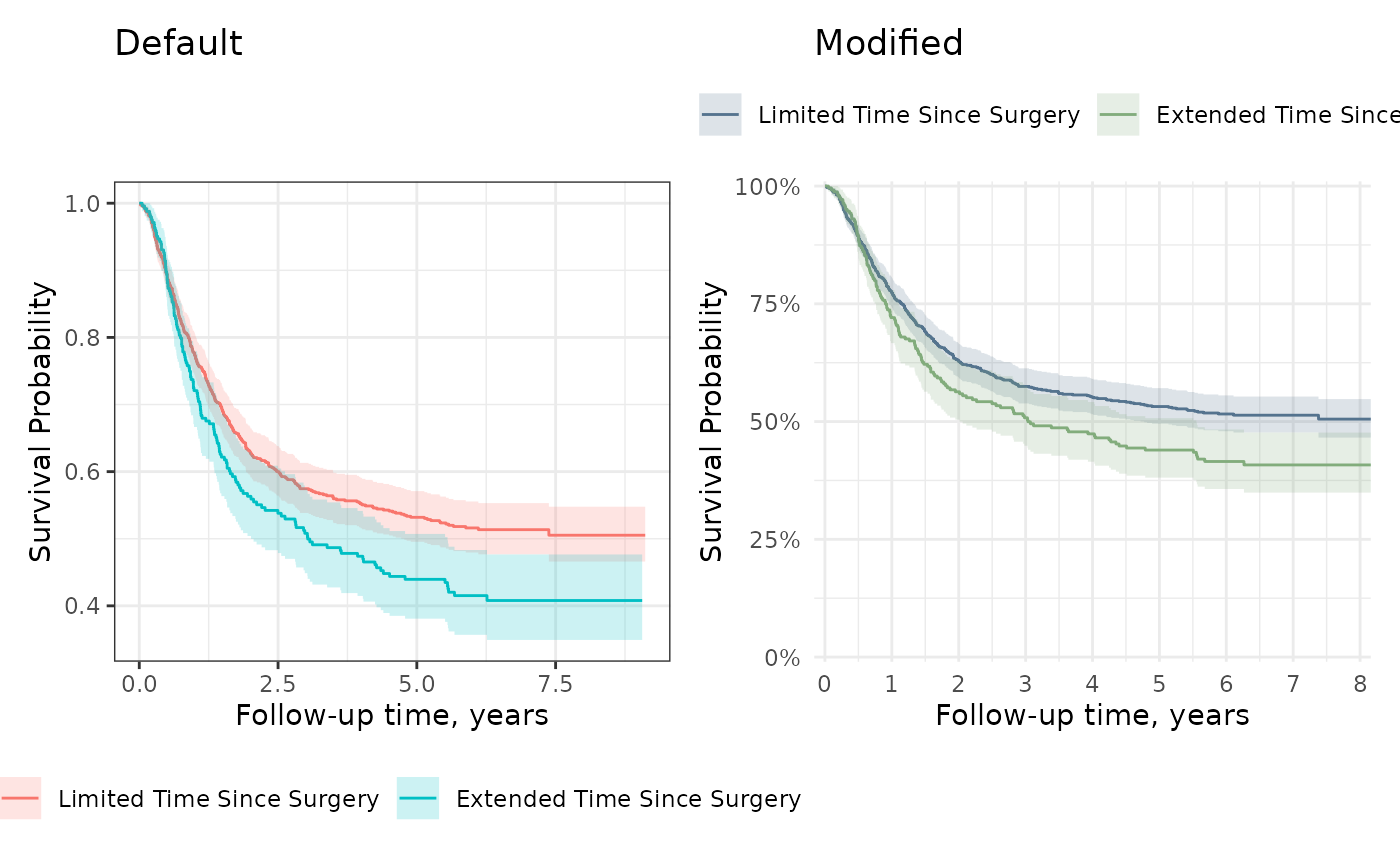
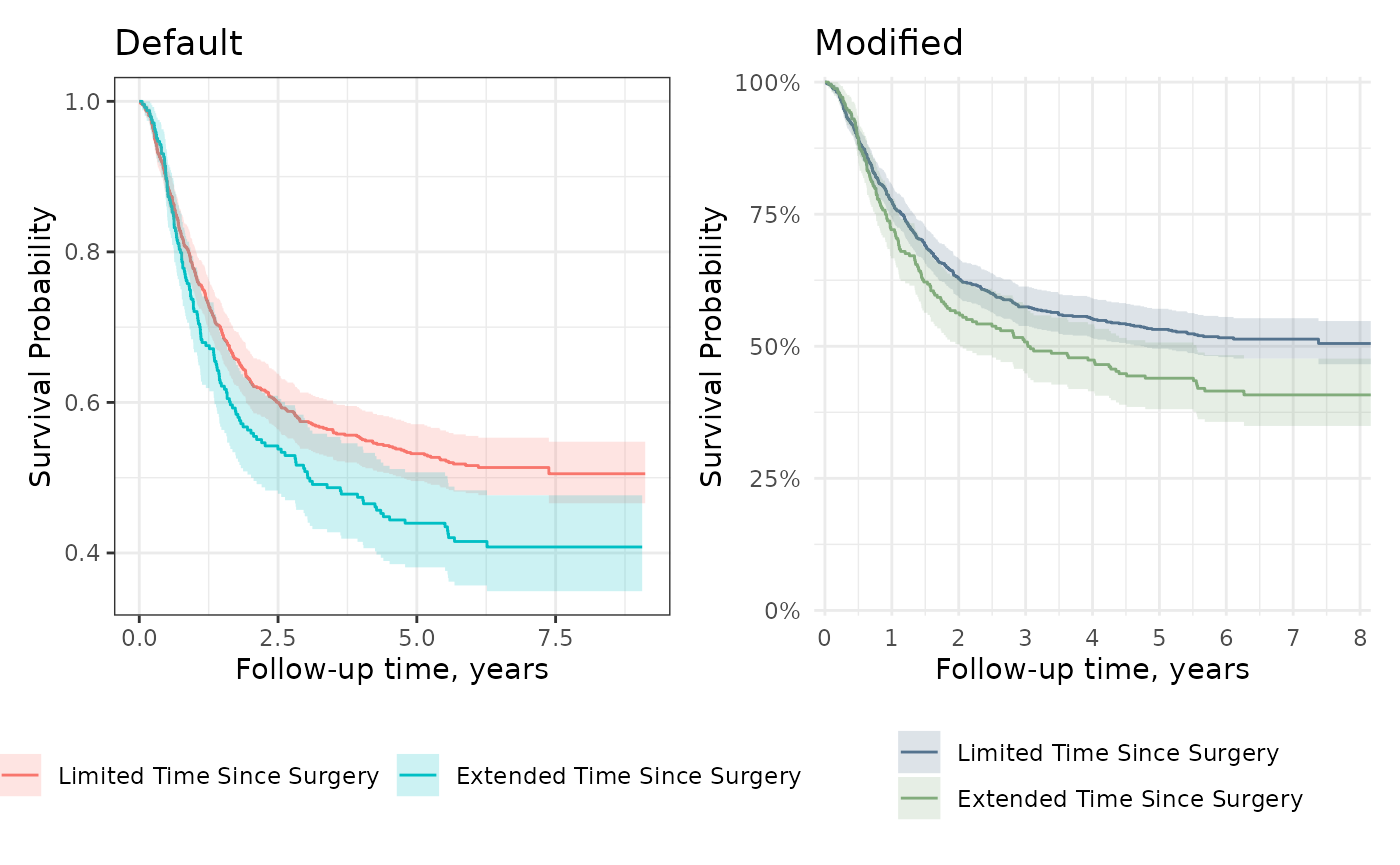
Deploying to gh-pages from @ ddsjoberg/ggsurvfit@f4f028d56624a5d059d587987f817d07867c44ac 🚀

diff --git a/index.html b/index.html
@@ -5,13 +5,12 @@
 <meta charset="utf-8">
 <meta http-equiv="X-UA-Compatible" content="IE=edge">
 <meta name="viewport" content="width=device-width, initial-scale=1, shrink-to-fit=no">
-<meta name="description" content="Ease the creation of time-to-event (aka survival) endpoint
-    figures with ggplot2.  The concise and modular code creates images
-    that are ready for publication or sharing.  Each of the functions that
-    add to or modify the existing ggplot are written as proper ggplot2
-    geoms or stat methods, allowing the functions from this package to be
-    combined with any functions or customization from ggplot2 and other
-    ggplot2 extensions.">
+<meta name="description" content="Ease the creation of time-to-event (i.e. survival) endpoint
+    figures. The modular functions create figures ready for
+    publication. Each of the functions that add to or modify the figure
+    are written as proper ggplot2 geoms or stat methods, allowing
+    the functions from this package to be combined with any function or
+    customization from ggplot2 and other ggplot2 extension packages.">
 <title>Easy and Flexible Time-to-Event Figures • ggsurvfit</title>
 <script src="deps/jquery-3.6.0/jquery-3.6.0.min.js"></script><meta name="viewport" content="width=device-width, initial-scale=1, shrink-to-fit=no">
 <link href="deps/bootstrap-5.1.3/bootstrap.min.css" rel="stylesheet">
@@ -19,13 +18,12 @@
 <!-- Font Awesome icons --><link rel="stylesheet" href="https://cdnjs.cloudflare.com/ajax/libs/font-awesome/5.12.1/css/all.min.css" integrity="sha256-mmgLkCYLUQbXn0B1SRqzHar6dCnv9oZFPEC1g1cwlkk=" crossorigin="anonymous">
 <link rel="stylesheet" href="https://cdnjs.cloudflare.com/ajax/libs/font-awesome/5.12.1/css/v4-shims.min.css" integrity="sha256-wZjR52fzng1pJHwx4aV2AO3yyTOXrcDW7jBpJtTwVxw=" crossorigin="anonymous">
 <!-- bootstrap-toc --><script src="https://cdn.rawgit.com/afeld/bootstrap-toc/v1.0.1/dist/bootstrap-toc.min.js"></script><!-- headroom.js --><script src="https://cdnjs.cloudflare.com/ajax/libs/headroom/0.11.0/headroom.min.js" integrity="sha256-AsUX4SJE1+yuDu5+mAVzJbuYNPHj/WroHuZ8Ir/CkE0=" crossorigin="anonymous"></script><script src="https://cdnjs.cloudflare.com/ajax/libs/headroom/0.11.0/jQuery.headroom.min.js" integrity="sha256-ZX/yNShbjqsohH1k95liqY9Gd8uOiE1S4vZc+9KQ1K4=" crossorigin="anonymous"></script><!-- clipboard.js --><script src="https://cdnjs.cloudflare.com/ajax/libs/clipboard.js/2.0.6/clipboard.min.js" integrity="sha256-inc5kl9MA1hkeYUt+EC3BhlIgyp/2jDIyBLS6k3UxPI=" crossorigin="anonymous"></script><!-- search --><script src="https://cdnjs.cloudflare.com/ajax/libs/fuse.js/6.4.6/fuse.js" integrity="sha512-zv6Ywkjyktsohkbp9bb45V6tEMoWhzFzXis+LrMehmJZZSys19Yxf1dopHx7WzIKxr5tK2dVcYmaCk2uqdjF4A==" crossorigin="anonymous"></script><script src="https://cdnjs.cloudflare.com/ajax/libs/autocomplete.js/0.38.0/autocomplete.jquery.min.js" integrity="sha512-GU9ayf+66Xx2TmpxqJpliWbT5PiGYxpaG8rfnBEk1LL8l1KGkRShhngwdXK1UgqhAzWpZHSiYPc09/NwDQIGyg==" crossorigin="anonymous"></script><script src="https://cdnjs.cloudflare.com/ajax/libs/mark.js/8.11.1/mark.min.js" integrity="sha512-5CYOlHXGh6QpOFA/TeTylKLWfB3ftPsde7AnmhuitiTX4K5SqCLBeKro6sPS8ilsz1Q4NRx3v8Ko2IBiszzdww==" crossorigin="anonymous"></script><!-- pkgdown --><script src="pkgdown.js"></script><meta property="og:title" content="Easy and Flexible Time-to-Event Figures">
-<meta property="og:description" content="Ease the creation of time-to-event (aka survival) endpoint
-    figures with ggplot2.  The concise and modular code creates images
-    that are ready for publication or sharing.  Each of the functions that
-    add to or modify the existing ggplot are written as proper ggplot2
-    geoms or stat methods, allowing the functions from this package to be
-    combined with any functions or customization from ggplot2 and other
-    ggplot2 extensions.">
+<meta property="og:description" content="Ease the creation of time-to-event (i.e. survival) endpoint
+    figures. The modular functions create figures ready for
+    publication. Each of the functions that add to or modify the figure
+    are written as proper ggplot2 geoms or stat methods, allowing
+    the functions from this package to be combined with any function or
+    customization from ggplot2 and other ggplot2 extension packages.">
 <!-- mathjax --><script src="https://cdnjs.cloudflare.com/ajax/libs/mathjax/2.7.5/MathJax.js" integrity="sha256-nvJJv9wWKEm88qvoQl9ekL2J+k/RWIsaSScxxlsrv8k=" crossorigin="anonymous"></script><script src="https://cdnjs.cloudflare.com/ajax/libs/mathjax/2.7.5/config/TeX-AMS-MML_HTMLorMML.js" integrity="sha256-84DKXVJXs0/F8OTMzX4UR909+jtl4G7SPypPavF+GfA=" crossorigin="anonymous"></script><!--[if lt IE 9]>
 <script src="https://oss.maxcdn.com/html5shiv/3.7.3/html5shiv.min.js"></script>
 <script src="https://oss.maxcdn.com/respond/1.4.2/respond.min.js"></script>
@@ -101,8 +99,11 @@
 <div class="section level2">
 <h2 id="installation">Installation<a class="anchor" aria-label="anchor" href="#installation"></a>
 </h2>
-<p>You can install the development version of <strong>ggsurvfit</strong> from <a href="https://github.com/ddsjoberg/ggsurvfit" class="external-link">GitHub</a> with:</p>
+<p>Install <strong>ggsurvfit</strong> from CRAN with:</p>
 <div class="sourceCode" id="cb1"><pre class="downlit sourceCode r">
+<code class="sourceCode R"><span><span class="fu"><a href="https://rdrr.io/r/utils/install.packages.html" class="external-link">install.packages</a></span><span class="op">(</span><span class="st">"ggsurvfit"</span><span class="op">)</span></span></code></pre></div>
+<p>You can install the development version from <a href="https://github.com/ddsjoberg/ggsurvfit" class="external-link">GitHub</a> with:</p>
+<div class="sourceCode" id="cb2"><pre class="downlit sourceCode r">
 <code class="sourceCode R"><span><span class="co"># install.packages("devtools")</span></span>
 <span><span class="fu">devtools</span><span class="fu">::</span><span class="fu">install_github</span><span class="op">(</span><span class="st">"ddsjoberg/ggsurvfit"</span><span class="op">)</span></span></code></pre></div>
 </div>
@@ -110,7 +111,7 @@
 <h2 id="examples">Examples<a class="anchor" aria-label="anchor" href="#examples"></a>
 </h2>
 <p>Review the <a href="http://www.danieldsjoberg.com/ggsurvfit/articles/gallery.html"><strong>figure gallery</strong></a> for many more examples.</p>
-<div class="sourceCode" id="cb2"><pre class="downlit sourceCode r">
+<div class="sourceCode" id="cb3"><pre class="downlit sourceCode r">
 <code class="sourceCode R"><span><span class="kw"><a href="https://rdrr.io/r/base/library.html" class="external-link">library</a></span><span class="op">(</span><span class="va"><a href="https://github.com/ddsjoberg/ggsurvfit" class="external-link">ggsurvfit</a></span><span class="op">)</span></span>
 <span><span class="kw"><a href="https://rdrr.io/r/base/library.html" class="external-link">library</a></span><span class="op">(</span><span class="va"><a href="https://ggplot2.tidyverse.org" class="external-link">ggplot2</a></span><span class="op">)</span></span>
 <span></span>
@@ -120,10 +121,14 @@
 <span>  <span class="fu"><a href="reference/add_confidence_interval.html">add_confidence_interval</a></span><span class="op">(</span><span class="op">)</span> <span class="op">+</span></span>
 <span>  <span class="fu"><a href="reference/add_risktable.html">add_risktable</a></span><span class="op">(</span><span class="op">)</span> <span class="op">+</span></span>
 <span>  <span class="fu"><a href="reference/add_quantile.html">add_quantile</a></span><span class="op">(</span>y_value <span class="op">=</span> <span class="fl">0.6</span>, color <span class="op">=</span> <span class="st">"gray50"</span>, size <span class="op">=</span> <span class="fl">0.75</span><span class="op">)</span> <span class="op">+</span></span>
+<span>  </span>
 <span>  <span class="co"># use ggplot2 functions to style the plot and update the labels --------------</span></span>
+<span>  <span class="co"># limit plot to show 8 years and less</span></span>
+<span>  <span class="fu"><a href="https://ggplot2.tidyverse.org/reference/coord_cartesian.html" class="external-link">coord_cartesian</a></span><span class="op">(</span>xlim <span class="op">=</span> <span class="fu"><a href="https://rdrr.io/r/base/c.html" class="external-link">c</a></span><span class="op">(</span><span class="fl">0</span>, <span class="fl">8</span><span class="op">)</span><span class="op">)</span> <span class="op">+</span></span>
+<span>  <span class="co"># update figure labels/titles</span></span>
 <span>  <span class="fu"><a href="https://ggplot2.tidyverse.org/reference/labs.html" class="external-link">labs</a></span><span class="op">(</span></span>
 <span>    y <span class="op">=</span> <span class="st">"Probability of survival"</span>,</span>
-<span>    title <span class="op">=</span> <span class="st">"Recurrence by Time Since Surgery"</span>,</span>
+<span>    title <span class="op">=</span> <span class="st">"Recurrence by Time Since Surgery to Randomization"</span>,</span>
 <span>  <span class="op">)</span> <span class="op">+</span></span>
 <span>  <span class="co"># reduce padding on edges of figure, and format axes</span></span>
 <span>  <span class="fu"><a href="https://ggplot2.tidyverse.org/reference/scale_continuous.html" class="external-link">scale_y_continuous</a></span><span class="op">(</span>label <span class="op">=</span> <span class="fu">scales</span><span class="fu">::</span><span class="va"><a href="https://scales.r-lib.org/reference/percent_format.html" class="external-link">percent</a></span>, </span>
@@ -150,7 +155,7 @@
 </h2>
 <p>The package also includes a gem for those using the <a href="https://www.cdisc.org/standards/foundational/adam/adam-basic-data-structure-bds-time-event-tte-analyses-v1-0" class="external-link">CDISC ADaM ADTTE</a> data model. The event indicator in ADTTE data sets is named <code>"CNSR"</code> and is coded in the opposite way the survival package expects outcomes—<code>1 = 'censored'</code> and <code>0 = 'event'</code>. This difference creates an opportunity for errors to be introduced in an analysis. The package exports a function called <code><a href="reference/Surv_CNSR.html">Surv_CNSR()</a></code> to resolve this concern.</p>
 <p>The function creates a survival object (e.g. <code><a href="https://rdrr.io/pkg/survival/man/Surv.html" class="external-link">survival::Surv()</a></code>) that uses CDISC ADaM ADTTE coding conventions and converts the arguments to the status/event variable convention used in the survival package for both the event indicator and the time component. The <code>"AVAL"</code> and <code>"CNSR"</code> arguments are passed to <code>survival::Surv(time = AVAL, event = 1 - CNSR, type = "right", origin = 0)</code>. The function can be used in <strong>ggsurvfit</strong> as well as any other package that uses <code><a href="https://rdrr.io/pkg/survival/man/Surv.html" class="external-link">survival::Surv()</a></code>.</p>
-<div class="sourceCode" id="cb3"><pre class="downlit sourceCode r">
+<div class="sourceCode" id="cb4"><pre class="downlit sourceCode r">
 <code class="sourceCode R"><span><span class="fu"><a href="https://rdrr.io/pkg/survival/man/survfit.html" class="external-link">survfit</a></span><span class="op">(</span><span class="fu"><a href="reference/Surv_CNSR.html">Surv_CNSR</a></span><span class="op">(</span><span class="op">)</span> <span class="op">~</span> <span class="fl">1</span>, <span class="va">adtte</span><span class="op">)</span></span>
 <span><span class="co">#&gt; Call: survfit(formula = Surv_CNSR() ~ 1, data = adtte)</span></span>
 <span><span class="co">#&gt; </span></span>

diff --git a/reference/ggsurvfit-package.html b/reference/ggsurvfit-package.html
@@ -1,5 +1,5 @@
 <!DOCTYPE html>
-<!-- Generated by pkgdown: do not edit by hand --><html lang="en"><head><meta http-equiv="Content-Type" content="text/html; charset=UTF-8"><meta charset="utf-8"><meta http-equiv="X-UA-Compatible" content="IE=edge"><meta name="viewport" content="width=device-width, initial-scale=1, shrink-to-fit=no"><meta name="description" content="Ease the creation of time-to-event (aka survival) endpoint figures with 'ggplot2'. The concise and modular code creates images that are ready for publication or sharing. Each of the functions that add to or modify the existing ggplot are written as proper 'ggplot2' geoms or stat methods, allowing the functions from this package to be combined with any functions or customization from 'ggplot2' and other 'ggplot2' extensions."><title>ggsurvfit: Easy and Flexible Time-to-Event Figures — ggsurvfit-package • ggsurvfit</title><script src="../deps/jquery-3.6.0/jquery-3.6.0.min.js"></script><meta name="viewport" content="width=device-width, initial-scale=1, shrink-to-fit=no"><link href="../deps/bootstrap-5.1.3/bootstrap.min.css" rel="stylesheet"><script src="../deps/bootstrap-5.1.3/bootstrap.bundle.min.js"></script><link href="../deps/Atkinson_Hyperlegible-0.4.2/font.css" rel="stylesheet"><!-- Font Awesome icons --><link rel="stylesheet" href="https://cdnjs.cloudflare.com/ajax/libs/font-awesome/5.12.1/css/all.min.css" integrity="sha256-mmgLkCYLUQbXn0B1SRqzHar6dCnv9oZFPEC1g1cwlkk=" crossorigin="anonymous"><link rel="stylesheet" href="https://cdnjs.cloudflare.com/ajax/libs/font-awesome/5.12.1/css/v4-shims.min.css" integrity="sha256-wZjR52fzng1pJHwx4aV2AO3yyTOXrcDW7jBpJtTwVxw=" crossorigin="anonymous"><!-- bootstrap-toc --><script src="https://cdn.rawgit.com/afeld/bootstrap-toc/v1.0.1/dist/bootstrap-toc.min.js"></script><!-- headroom.js --><script src="https://cdnjs.cloudflare.com/ajax/libs/headroom/0.11.0/headroom.min.js" integrity="sha256-AsUX4SJE1+yuDu5+mAVzJbuYNPHj/WroHuZ8Ir/CkE0=" crossorigin="anonymous"></script><script src="https://cdnjs.cloudflare.com/ajax/libs/headroom/0.11.0/jQuery.headroom.min.js" integrity="sha256-ZX/yNShbjqsohH1k95liqY9Gd8uOiE1S4vZc+9KQ1K4=" crossorigin="anonymous"></script><!-- clipboard.js --><script src="https://cdnjs.cloudflare.com/ajax/libs/clipboard.js/2.0.6/clipboard.min.js" integrity="sha256-inc5kl9MA1hkeYUt+EC3BhlIgyp/2jDIyBLS6k3UxPI=" crossorigin="anonymous"></script><!-- search --><script src="https://cdnjs.cloudflare.com/ajax/libs/fuse.js/6.4.6/fuse.js" integrity="sha512-zv6Ywkjyktsohkbp9bb45V6tEMoWhzFzXis+LrMehmJZZSys19Yxf1dopHx7WzIKxr5tK2dVcYmaCk2uqdjF4A==" crossorigin="anonymous"></script><script src="https://cdnjs.cloudflare.com/ajax/libs/autocomplete.js/0.38.0/autocomplete.jquery.min.js" integrity="sha512-GU9ayf+66Xx2TmpxqJpliWbT5PiGYxpaG8rfnBEk1LL8l1KGkRShhngwdXK1UgqhAzWpZHSiYPc09/NwDQIGyg==" crossorigin="anonymous"></script><script src="https://cdnjs.cloudflare.com/ajax/libs/mark.js/8.11.1/mark.min.js" integrity="sha512-5CYOlHXGh6QpOFA/TeTylKLWfB3ftPsde7AnmhuitiTX4K5SqCLBeKro6sPS8ilsz1Q4NRx3v8Ko2IBiszzdww==" crossorigin="anonymous"></script><!-- pkgdown --><script src="../pkgdown.js"></script><meta property="og:title" content="ggsurvfit: Easy and Flexible Time-to-Event Figures — ggsurvfit-package"><meta property="og:description" content="Ease the creation of time-to-event (aka survival) endpoint figures with 'ggplot2'. The concise and modular code creates images that are ready for publication or sharing. Each of the functions that add to or modify the existing ggplot are written as proper 'ggplot2' geoms or stat methods, allowing the functions from this package to be combined with any functions or customization from 'ggplot2' and other 'ggplot2' extensions."><!-- mathjax --><script src="https://cdnjs.cloudflare.com/ajax/libs/mathjax/2.7.5/MathJax.js" integrity="sha256-nvJJv9wWKEm88qvoQl9ekL2J+k/RWIsaSScxxlsrv8k=" crossorigin="anonymous"></script><script src="https://cdnjs.cloudflare.com/ajax/libs/mathjax/2.7.5/config/TeX-AMS-MML_HTMLorMML.js" integrity="sha256-84DKXVJXs0/F8OTMzX4UR909+jtl4G7SPypPavF+GfA=" crossorigin="anonymous"></script><!--[if lt IE 9]>
+<!-- Generated by pkgdown: do not edit by hand --><html lang="en"><head><meta http-equiv="Content-Type" content="text/html; charset=UTF-8"><meta charset="utf-8"><meta http-equiv="X-UA-Compatible" content="IE=edge"><meta name="viewport" content="width=device-width, initial-scale=1, shrink-to-fit=no"><meta name="description" content="Ease the creation of time-to-event (i.e. survival) endpoint figures. The modular functions create figures ready for publication. Each of the functions that add to or modify the figure are written as proper 'ggplot2' geoms or stat methods, allowing the functions from this package to be combined with any function or customization from 'ggplot2' and other 'ggplot2' extension packages."><title>ggsurvfit: Easy and Flexible Time-to-Event Figures — ggsurvfit-package • ggsurvfit</title><script src="../deps/jquery-3.6.0/jquery-3.6.0.min.js"></script><meta name="viewport" content="width=device-width, initial-scale=1, shrink-to-fit=no"><link href="../deps/bootstrap-5.1.3/bootstrap.min.css" rel="stylesheet"><script src="../deps/bootstrap-5.1.3/bootstrap.bundle.min.js"></script><link href="../deps/Atkinson_Hyperlegible-0.4.2/font.css" rel="stylesheet"><!-- Font Awesome icons --><link rel="stylesheet" href="https://cdnjs.cloudflare.com/ajax/libs/font-awesome/5.12.1/css/all.min.css" integrity="sha256-mmgLkCYLUQbXn0B1SRqzHar6dCnv9oZFPEC1g1cwlkk=" crossorigin="anonymous"><link rel="stylesheet" href="https://cdnjs.cloudflare.com/ajax/libs/font-awesome/5.12.1/css/v4-shims.min.css" integrity="sha256-wZjR52fzng1pJHwx4aV2AO3yyTOXrcDW7jBpJtTwVxw=" crossorigin="anonymous"><!-- bootstrap-toc --><script src="https://cdn.rawgit.com/afeld/bootstrap-toc/v1.0.1/dist/bootstrap-toc.min.js"></script><!-- headroom.js --><script src="https://cdnjs.cloudflare.com/ajax/libs/headroom/0.11.0/headroom.min.js" integrity="sha256-AsUX4SJE1+yuDu5+mAVzJbuYNPHj/WroHuZ8Ir/CkE0=" crossorigin="anonymous"></script><script src="https://cdnjs.cloudflare.com/ajax/libs/headroom/0.11.0/jQuery.headroom.min.js" integrity="sha256-ZX/yNShbjqsohH1k95liqY9Gd8uOiE1S4vZc+9KQ1K4=" crossorigin="anonymous"></script><!-- clipboard.js --><script src="https://cdnjs.cloudflare.com/ajax/libs/clipboard.js/2.0.6/clipboard.min.js" integrity="sha256-inc5kl9MA1hkeYUt+EC3BhlIgyp/2jDIyBLS6k3UxPI=" crossorigin="anonymous"></script><!-- search --><script src="https://cdnjs.cloudflare.com/ajax/libs/fuse.js/6.4.6/fuse.js" integrity="sha512-zv6Ywkjyktsohkbp9bb45V6tEMoWhzFzXis+LrMehmJZZSys19Yxf1dopHx7WzIKxr5tK2dVcYmaCk2uqdjF4A==" crossorigin="anonymous"></script><script src="https://cdnjs.cloudflare.com/ajax/libs/autocomplete.js/0.38.0/autocomplete.jquery.min.js" integrity="sha512-GU9ayf+66Xx2TmpxqJpliWbT5PiGYxpaG8rfnBEk1LL8l1KGkRShhngwdXK1UgqhAzWpZHSiYPc09/NwDQIGyg==" crossorigin="anonymous"></script><script src="https://cdnjs.cloudflare.com/ajax/libs/mark.js/8.11.1/mark.min.js" integrity="sha512-5CYOlHXGh6QpOFA/TeTylKLWfB3ftPsde7AnmhuitiTX4K5SqCLBeKro6sPS8ilsz1Q4NRx3v8Ko2IBiszzdww==" crossorigin="anonymous"></script><!-- pkgdown --><script src="../pkgdown.js"></script><meta property="og:title" content="ggsurvfit: Easy and Flexible Time-to-Event Figures — ggsurvfit-package"><meta property="og:description" content="Ease the creation of time-to-event (i.e. survival) endpoint figures. The modular functions create figures ready for publication. Each of the functions that add to or modify the figure are written as proper 'ggplot2' geoms or stat methods, allowing the functions from this package to be combined with any function or customization from 'ggplot2' and other 'ggplot2' extension packages."><!-- mathjax --><script src="https://cdnjs.cloudflare.com/ajax/libs/mathjax/2.7.5/MathJax.js" integrity="sha256-nvJJv9wWKEm88qvoQl9ekL2J+k/RWIsaSScxxlsrv8k=" crossorigin="anonymous"></script><script src="https://cdnjs.cloudflare.com/ajax/libs/mathjax/2.7.5/config/TeX-AMS-MML_HTMLorMML.js" integrity="sha256-84DKXVJXs0/F8OTMzX4UR909+jtl4G7SPypPavF+GfA=" crossorigin="anonymous"></script><!--[if lt IE 9]>
 <script src="https://oss.maxcdn.com/html5shiv/3.7.3/html5shiv.min.js"></script>
 <script src="https://oss.maxcdn.com/respond/1.4.2/respond.min.js"></script>
 <![endif]--></head><body>
@@ -53,7 +53,7 @@
     </div>
 
     <div class="ref-description section level2">
-    <p>Ease the creation of time-to-event (aka survival) endpoint figures with 'ggplot2'. The concise and modular code creates images that are ready for publication or sharing. Each of the functions that add to or modify the existing ggplot are written as proper 'ggplot2' geoms or stat methods, allowing the functions from this package to be combined with any functions or customization from 'ggplot2' and other 'ggplot2' extensions.</p>
+    <p>Ease the creation of time-to-event (i.e. survival) endpoint figures. The modular functions create figures ready for publication. Each of the functions that add to or modify the figure are written as proper 'ggplot2' geoms or stat methods, allowing the functions from this package to be combined with any function or customization from 'ggplot2' and other 'ggplot2' extension packages.</p>
     </div>
 
 

diff --git a/reference/survfit2_p.html b/reference/survfit2_p.html
@@ -1,13 +1,7 @@
 <!DOCTYPE html>
-<!-- Generated by pkgdown: do not edit by hand --><html lang="en"><head><meta http-equiv="Content-Type" content="text/html; charset=UTF-8"><meta charset="utf-8"><meta http-equiv="X-UA-Compatible" content="IE=edge"><meta name="viewport" content="width=device-width, initial-scale=1, shrink-to-fit=no"><meta name="description" content='EXPERIMENTAL! Will likely change or perhaps even disappear.
-The function survfit2_p() wraps survival::survdiff() and returns
-a formatted p-value.
-Functions logrank() and p_logrank() are helper functions that
-return the p-value from a the log-rank test with or without the "p" pre-pended.'><title>Calculate p-value — survfit2_p • ggsurvfit</title><script src="../deps/jquery-3.6.0/jquery-3.6.0.min.js"></script><meta name="viewport" content="width=device-width, initial-scale=1, shrink-to-fit=no"><link href="../deps/bootstrap-5.1.3/bootstrap.min.css" rel="stylesheet"><script src="../deps/bootstrap-5.1.3/bootstrap.bundle.min.js"></script><link href="../deps/Atkinson_Hyperlegible-0.4.2/font.css" rel="stylesheet"><!-- Font Awesome icons --><link rel="stylesheet" href="https://cdnjs.cloudflare.com/ajax/libs/font-awesome/5.12.1/css/all.min.css" integrity="sha256-mmgLkCYLUQbXn0B1SRqzHar6dCnv9oZFPEC1g1cwlkk=" crossorigin="anonymous"><link rel="stylesheet" href="https://cdnjs.cloudflare.com/ajax/libs/font-awesome/5.12.1/css/v4-shims.min.css" integrity="sha256-wZjR52fzng1pJHwx4aV2AO3yyTOXrcDW7jBpJtTwVxw=" crossorigin="anonymous"><!-- bootstrap-toc --><script src="https://cdn.rawgit.com/afeld/bootstrap-toc/v1.0.1/dist/bootstrap-toc.min.js"></script><!-- headroom.js --><script src="https://cdnjs.cloudflare.com/ajax/libs/headroom/0.11.0/headroom.min.js" integrity="sha256-AsUX4SJE1+yuDu5+mAVzJbuYNPHj/WroHuZ8Ir/CkE0=" crossorigin="anonymous"></script><script src="https://cdnjs.cloudflare.com/ajax/libs/headroom/0.11.0/jQuery.headroom.min.js" integrity="sha256-ZX/yNShbjqsohH1k95liqY9Gd8uOiE1S4vZc+9KQ1K4=" crossorigin="anonymous"></script><!-- clipboard.js --><script src="https://cdnjs.cloudflare.com/ajax/libs/clipboard.js/2.0.6/clipboard.min.js" integrity="sha256-inc5kl9MA1hkeYUt+EC3BhlIgyp/2jDIyBLS6k3UxPI=" crossorigin="anonymous"></script><!-- search --><script src="https://cdnjs.cloudflare.com/ajax/libs/fuse.js/6.4.6/fuse.js" integrity="sha512-zv6Ywkjyktsohkbp9bb45V6tEMoWhzFzXis+LrMehmJZZSys19Yxf1dopHx7WzIKxr5tK2dVcYmaCk2uqdjF4A==" crossorigin="anonymous"></script><script src="https://cdnjs.cloudflare.com/ajax/libs/autocomplete.js/0.38.0/autocomplete.jquery.min.js" integrity="sha512-GU9ayf+66Xx2TmpxqJpliWbT5PiGYxpaG8rfnBEk1LL8l1KGkRShhngwdXK1UgqhAzWpZHSiYPc09/NwDQIGyg==" crossorigin="anonymous"></script><script src="https://cdnjs.cloudflare.com/ajax/libs/mark.js/8.11.1/mark.min.js" integrity="sha512-5CYOlHXGh6QpOFA/TeTylKLWfB3ftPsde7AnmhuitiTX4K5SqCLBeKro6sPS8ilsz1Q4NRx3v8Ko2IBiszzdww==" crossorigin="anonymous"></script><!-- pkgdown --><script src="../pkgdown.js"></script><meta property="og:title" content="Calculate p-value — survfit2_p"><meta property="og:description" content='EXPERIMENTAL! Will likely change or perhaps even disappear.
-The function survfit2_p() wraps survival::survdiff() and returns
-a formatted p-value.
-Functions logrank() and p_logrank() are helper functions that
-return the p-value from a the log-rank test with or without the "p" pre-pended.'><!-- mathjax --><script src="https://cdnjs.cloudflare.com/ajax/libs/mathjax/2.7.5/MathJax.js" integrity="sha256-nvJJv9wWKEm88qvoQl9ekL2J+k/RWIsaSScxxlsrv8k=" crossorigin="anonymous"></script><script src="https://cdnjs.cloudflare.com/ajax/libs/mathjax/2.7.5/config/TeX-AMS-MML_HTMLorMML.js" integrity="sha256-84DKXVJXs0/F8OTMzX4UR909+jtl4G7SPypPavF+GfA=" crossorigin="anonymous"></script><!--[if lt IE 9]>
+<!-- Generated by pkgdown: do not edit by hand --><html lang="en"><head><meta http-equiv="Content-Type" content="text/html; charset=UTF-8"><meta charset="utf-8"><meta http-equiv="X-UA-Compatible" content="IE=edge"><meta name="viewport" content="width=device-width, initial-scale=1, shrink-to-fit=no"><meta name="description" content="The function survfit2_p() wraps survival::survdiff() and returns
+a formatted p-value."><title>Calculate p-value — survfit2_p • ggsurvfit</title><script src="../deps/jquery-3.6.0/jquery-3.6.0.min.js"></script><meta name="viewport" content="width=device-width, initial-scale=1, shrink-to-fit=no"><link href="../deps/bootstrap-5.1.3/bootstrap.min.css" rel="stylesheet"><script src="../deps/bootstrap-5.1.3/bootstrap.bundle.min.js"></script><link href="../deps/Atkinson_Hyperlegible-0.4.2/font.css" rel="stylesheet"><!-- Font Awesome icons --><link rel="stylesheet" href="https://cdnjs.cloudflare.com/ajax/libs/font-awesome/5.12.1/css/all.min.css" integrity="sha256-mmgLkCYLUQbXn0B1SRqzHar6dCnv9oZFPEC1g1cwlkk=" crossorigin="anonymous"><link rel="stylesheet" href="https://cdnjs.cloudflare.com/ajax/libs/font-awesome/5.12.1/css/v4-shims.min.css" integrity="sha256-wZjR52fzng1pJHwx4aV2AO3yyTOXrcDW7jBpJtTwVxw=" crossorigin="anonymous"><!-- bootstrap-toc --><script src="https://cdn.rawgit.com/afeld/bootstrap-toc/v1.0.1/dist/bootstrap-toc.min.js"></script><!-- headroom.js --><script src="https://cdnjs.cloudflare.com/ajax/libs/headroom/0.11.0/headroom.min.js" integrity="sha256-AsUX4SJE1+yuDu5+mAVzJbuYNPHj/WroHuZ8Ir/CkE0=" crossorigin="anonymous"></script><script src="https://cdnjs.cloudflare.com/ajax/libs/headroom/0.11.0/jQuery.headroom.min.js" integrity="sha256-ZX/yNShbjqsohH1k95liqY9Gd8uOiE1S4vZc+9KQ1K4=" crossorigin="anonymous"></script><!-- clipboard.js --><script src="https://cdnjs.cloudflare.com/ajax/libs/clipboard.js/2.0.6/clipboard.min.js" integrity="sha256-inc5kl9MA1hkeYUt+EC3BhlIgyp/2jDIyBLS6k3UxPI=" crossorigin="anonymous"></script><!-- search --><script src="https://cdnjs.cloudflare.com/ajax/libs/fuse.js/6.4.6/fuse.js" integrity="sha512-zv6Ywkjyktsohkbp9bb45V6tEMoWhzFzXis+LrMehmJZZSys19Yxf1dopHx7WzIKxr5tK2dVcYmaCk2uqdjF4A==" crossorigin="anonymous"></script><script src="https://cdnjs.cloudflare.com/ajax/libs/autocomplete.js/0.38.0/autocomplete.jquery.min.js" integrity="sha512-GU9ayf+66Xx2TmpxqJpliWbT5PiGYxpaG8rfnBEk1LL8l1KGkRShhngwdXK1UgqhAzWpZHSiYPc09/NwDQIGyg==" crossorigin="anonymous"></script><script src="https://cdnjs.cloudflare.com/ajax/libs/mark.js/8.11.1/mark.min.js" integrity="sha512-5CYOlHXGh6QpOFA/TeTylKLWfB3ftPsde7AnmhuitiTX4K5SqCLBeKro6sPS8ilsz1Q4NRx3v8Ko2IBiszzdww==" crossorigin="anonymous"></script><!-- pkgdown --><script src="../pkgdown.js"></script><meta property="og:title" content="Calculate p-value — survfit2_p"><meta property="og:description" content="The function survfit2_p() wraps survival::survdiff() and returns
+a formatted p-value."><!-- mathjax --><script src="https://cdnjs.cloudflare.com/ajax/libs/mathjax/2.7.5/MathJax.js" integrity="sha256-nvJJv9wWKEm88qvoQl9ekL2J+k/RWIsaSScxxlsrv8k=" crossorigin="anonymous"></script><script src="https://cdnjs.cloudflare.com/ajax/libs/mathjax/2.7.5/config/TeX-AMS-MML_HTMLorMML.js" integrity="sha256-84DKXVJXs0/F8OTMzX4UR909+jtl4G7SPypPavF+GfA=" crossorigin="anonymous"></script><!--[if lt IE 9]>
 <script src="https://oss.maxcdn.com/html5shiv/3.7.3/html5shiv.min.js"></script>
 <script src="https://oss.maxcdn.com/respond/1.4.2/respond.min.js"></script>
 <![endif]--></head><body>
@@ -61,11 +55,8 @@ return the p-value from a the log-rank test with or without the "p" pre-pended.'
     </div>
 
     <div class="ref-description section level2">
-    <p>EXPERIMENTAL! Will likely change or perhaps even disappear.</p>
-<p>The function <code>survfit2_p()</code> wraps <code><a href="https://rdrr.io/pkg/survival/man/survdiff.html" class="external-link">survival::survdiff()</a></code> and returns
+    <p>The function <code>survfit2_p()</code> wraps <code><a href="https://rdrr.io/pkg/survival/man/survdiff.html" class="external-link">survival::survdiff()</a></code> and returns
 a formatted p-value.</p>
-<p>Functions <code>logrank()</code> and <code>p_logrank()</code> are helper functions that
-return the p-value from a the log-rank test with or without the "p" pre-pended.</p>
     </div>
 
     <div class="section level2">

diff --git a/reference/print_ggsurvfit.html b/reference/print_ggsurvfit.html
@@ -61,12 +61,8 @@
     <div class="sourceCode"><pre class="sourceCode r"><code><span><span class="co"># S3 method for ggsurvfit</span></span>
 <span><span class="fu"><a href="https://rdrr.io/r/base/print.html" class="external-link">print</a></span><span class="op">(</span><span class="va">x</span>, <span class="va">...</span><span class="op">)</span></span>
 <span></span>
-<span><span class="fu">knit_print.ggsurvfit</span><span class="op">(</span><span class="va">x</span>, <span class="va">...</span><span class="op">)</span></span>
-<span></span>
 <span><span class="co"># S3 method for ggcuminc</span></span>
-<span><span class="fu"><a href="https://rdrr.io/r/base/print.html" class="external-link">print</a></span><span class="op">(</span><span class="va">x</span>, <span class="va">...</span><span class="op">)</span></span>
-<span></span>
-<span><span class="fu">knit_print.ggcuminc</span><span class="op">(</span><span class="va">x</span>, <span class="va">...</span><span class="op">)</span></span></code></pre></div>
+<span><span class="fu"><a href="https://rdrr.io/r/base/print.html" class="external-link">print</a></span><span class="op">(</span><span class="va">x</span>, <span class="va">...</span><span class="op">)</span></span></code></pre></div>
     </div>
 
     <div class="section level2">
@@ -83,13 +79,17 @@
     <h2 id="value">Value<a class="anchor" aria-label="anchor" href="#value"></a></h2>
     
 
-<p>a printed ggplot</p>
+<p>a printed ggplot2 figure</p>
     </div>
 
     <div class="section level2">
     <h2 id="ref-examples">Examples<a class="anchor" aria-label="anchor" href="#ref-examples"></a></h2>
-    <div class="sourceCode"><pre class="sourceCode r"><code><span class="r-in"><span><span class="co"># add example</span></span></span>
-<span class="r-in"></span>
+    <div class="sourceCode"><pre class="sourceCode r"><code><span class="r-in"><span><span class="fu"><a href="https://rdrr.io/r/base/print.html" class="external-link">print</a></span><span class="op">(</span><span class="fu"><a href="survfit2.html">survfit2</a></span><span class="op">(</span><span class="fu"><a href="https://rdrr.io/pkg/survival/man/Surv.html" class="external-link">Surv</a></span><span class="op">(</span><span class="va">time</span>, <span class="va">status</span><span class="op">)</span> <span class="op">~</span> <span class="va">surg</span>, data <span class="op">=</span> <span class="va">df_colon</span><span class="op">)</span><span class="op">)</span></span></span>
+<span class="r-out co"><span class="r-pr">#&gt;</span> Call: survfit(formula = formula, data = ..1)</span>
+<span class="r-out co"><span class="r-pr">#&gt;</span> </span>
+<span class="r-out co"><span class="r-pr">#&gt;</span>                                    n events median 0.95LCL 0.95UCL</span>
+<span class="r-out co"><span class="r-pr">#&gt;</span> surg=Limited Time Since Surgery  682    327     NA    4.77      NA</span>
+<span class="r-out co"><span class="r-pr">#&gt;</span> surg=Extended Time Since Surgery 247    141   3.03    2.01    5.55</span>
 </code></pre></div>
     </div>
   </main><aside class="col-md-3"><nav id="toc"><h2>On this page</h2>

diff --git a/articles/gallery.html b/articles/gallery.html
@@ -120,7 +120,8 @@
 <span>  <span class="fu"><a href="https://ggplot2.tidyverse.org/reference/scale_manual.html" class="external-link">scale_color_manual</a></span><span class="op">(</span>values <span class="op">=</span> <span class="fu"><a href="https://rdrr.io/r/base/c.html" class="external-link">c</a></span><span class="op">(</span><span class="st">'#54738E'</span>, <span class="st">'#82AC7C'</span><span class="op">)</span><span class="op">)</span> <span class="op">+</span></span>
 <span>  <span class="fu"><a href="https://ggplot2.tidyverse.org/reference/scale_manual.html" class="external-link">scale_fill_manual</a></span><span class="op">(</span>values <span class="op">=</span> <span class="fu"><a href="https://rdrr.io/r/base/c.html" class="external-link">c</a></span><span class="op">(</span><span class="st">'#54738E'</span>, <span class="st">'#82AC7C'</span><span class="op">)</span><span class="op">)</span> <span class="op">+</span></span>
 <span>  <span class="fu"><a href="https://ggplot2.tidyverse.org/reference/ggtheme.html" class="external-link">theme_minimal</a></span><span class="op">(</span><span class="op">)</span> <span class="op">+</span></span>
-<span>  <span class="fu"><a href="https://ggplot2.tidyverse.org/reference/theme.html" class="external-link">theme</a></span><span class="op">(</span>legend.position <span class="op">=</span> <span class="st">"top"</span><span class="op">)</span> <span class="op">+</span></span>
+<span>  <span class="fu"><a href="https://ggplot2.tidyverse.org/reference/theme.html" class="external-link">theme</a></span><span class="op">(</span>legend.position <span class="op">=</span> <span class="st">"bottom"</span><span class="op">)</span> <span class="op">+</span></span>
+<span>  <span class="fu"><a href="https://ggplot2.tidyverse.org/reference/guides.html" class="external-link">guides</a></span><span class="op">(</span>color <span class="op">=</span> <span class="fu"><a href="https://ggplot2.tidyverse.org/reference/guide_legend.html" class="external-link">guide_legend</a></span><span class="op">(</span>ncol <span class="op">=</span> <span class="fl">1</span><span class="op">)</span><span class="op">)</span> <span class="op">+</span></span>
 <span>  <span class="fu"><a href="https://ggplot2.tidyverse.org/reference/labs.html" class="external-link">labs</a></span><span class="op">(</span>title <span class="op">=</span> <span class="st">"Modified"</span><span class="op">)</span></span>
 <span></span>
 <span><span class="va">gg_default</span> <span class="op">+</span> <span class="va">gg_styled</span></span></code></pre></div>

diff --git a/news/index.html b/news/index.html
@@ -51,12 +51,10 @@
       <small>Source: <a href="https://github.com/ddsjoberg/ggsurvfit/blob/HEAD/NEWS.md" class="external-link"><code>NEWS.md</code></a></small>
     </div>
 
-    <div class="section level2"><h2 class="pkg-version" data-toc-text="development version" id="ggsurvfit-development-version">ggsurvfit (development version)<a class="anchor" aria-label="anchor" href="#ggsurvfit-development-version"></a></h2></div>
     <div class="section level2">
-<h2 class="pkg-version" data-toc-text="0.0.0.9000" id="ggsurvfit-0009000">ggsurvfit 0.0.0.9000<a class="anchor" aria-label="anchor" href="#ggsurvfit-0009000"></a></h2>
-<ul><li>Added a <code>NEWS.md</code> file to track changes to the package.</li></ul></div>
-  </main><aside class="col-md-3"><nav id="toc"><h2>On this page</h2>
-    </nav></aside></div>
+<h2 class="pkg-version" data-toc-text="development version" id="ggsurvfit-development-version">ggsurvfit (development version)<a class="anchor" aria-label="anchor" href="#ggsurvfit-development-version"></a></h2>
+<ul><li>First release.</li></ul></div>
+  </main></div>
 
 
     <footer><div class="pkgdown-footer-left">

diff --git a/reference/stepribbon.html b/reference/stepribbon.html
@@ -142,6 +142,12 @@ to the paired geom/stat.</p></dd>
 
 </dl></div>
     <div class="section level2">
+    <h2 id="value">Value<a class="anchor" aria-label="anchor" href="#value"></a></h2>
+    
+
+<p>a ggplot2 figure</p>
+    </div>
+    <div class="section level2">
     <h2 id="references">References<a class="anchor" aria-label="anchor" href="#references"></a></h2>
     <p><a href="https://groups.google.com/forum/?fromgroups=#!topic/ggplot2/9cFWHaH1CPs" class="external-link">https://groups.google.com/forum/?fromgroups=#!topic/ggplot2/9cFWHaH1CPs</a></p>
     </div>

diff --git a/reference/add_risktable.html b/reference/add_risktable.html
@@ -124,6 +124,12 @@ in the risk table across groups. Default is <code>FALSE</code></p></dd>
 to increase the size of the statistics presented in the table.</p></dd>
 
 </dl></div>
+    <div class="section level2">
+    <h2 id="value">Value<a class="anchor" aria-label="anchor" href="#value"></a></h2>
+    
+
+<p>a ggplot2 figure</p>
+    </div>
 
     <div class="section level2">
     <h2 id="ref-examples">Examples<a class="anchor" aria-label="anchor" href="#ref-examples"></a></h2>

diff --git a/reference/survfit2.html b/reference/survfit2.html
@@ -145,7 +145,7 @@ all elements are calculable.</p>
     <h2 id="value">Value<a class="anchor" aria-label="anchor" href="#value"></a></h2>
     
 
-<p>surfit2 object</p>
+<p>survfit2 object</p>
     </div>
     <div class="section level2">
     <h2 id="survfit-vs-survfit-"><code>survfit2()</code> vs <code><a href="https://rdrr.io/pkg/survival/man/survfit.html" class="external-link">survfit()</a></code><a class="anchor" aria-label="anchor" href="#survfit-vs-survfit-"></a></h2>

diff --git a/reference/theme_ggsurvfit.html b/reference/theme_ggsurvfit.html
@@ -63,6 +63,12 @@
 <span><span class="fu">theme_ggsurvfit_KMunicate</span><span class="op">(</span><span class="op">)</span></span></code></pre></div>
     </div>
 
+    <div class="section level2">
+    <h2 id="value">Value<a class="anchor" aria-label="anchor" href="#value"></a></h2>
+    
+
+<p>a ggplot2 theme</p>
+    </div>
 
     <div class="section level2">
     <h2 id="ref-examples">Examples<a class="anchor" aria-label="anchor" href="#ref-examples"></a></h2>

diff --git a/reference/theme_risktable.html b/reference/theme_risktable.html
@@ -63,6 +63,12 @@
 <span><span class="fu">theme_risktable_boxed</span><span class="op">(</span><span class="op">)</span></span></code></pre></div>
     </div>
 
+    <div class="section level2">
+    <h2 id="value">Value<a class="anchor" aria-label="anchor" href="#value"></a></h2>
+    
+
+<p>a ggplot2 figure</p>
+    </div>
 
     <div class="section level2">
     <h2 id="ref-examples">Examples<a class="anchor" aria-label="anchor" href="#ref-examples"></a></h2>

diff --git a/reference/ggsurvfit.html b/reference/ggsurvfit.html
@@ -96,7 +96,7 @@ will be a mix a various line types for each stratum.</p></dd>
     <h2 id="value">Value<a class="anchor" aria-label="anchor" href="#value"></a></h2>
     
 
-<p>a ggplot</p>
+<p>a ggplot2 figure</p>
     </div>
     <div class="section level2">
     <h2 id="details">Details<a class="anchor" aria-label="anchor" href="#details"></a></h2>
